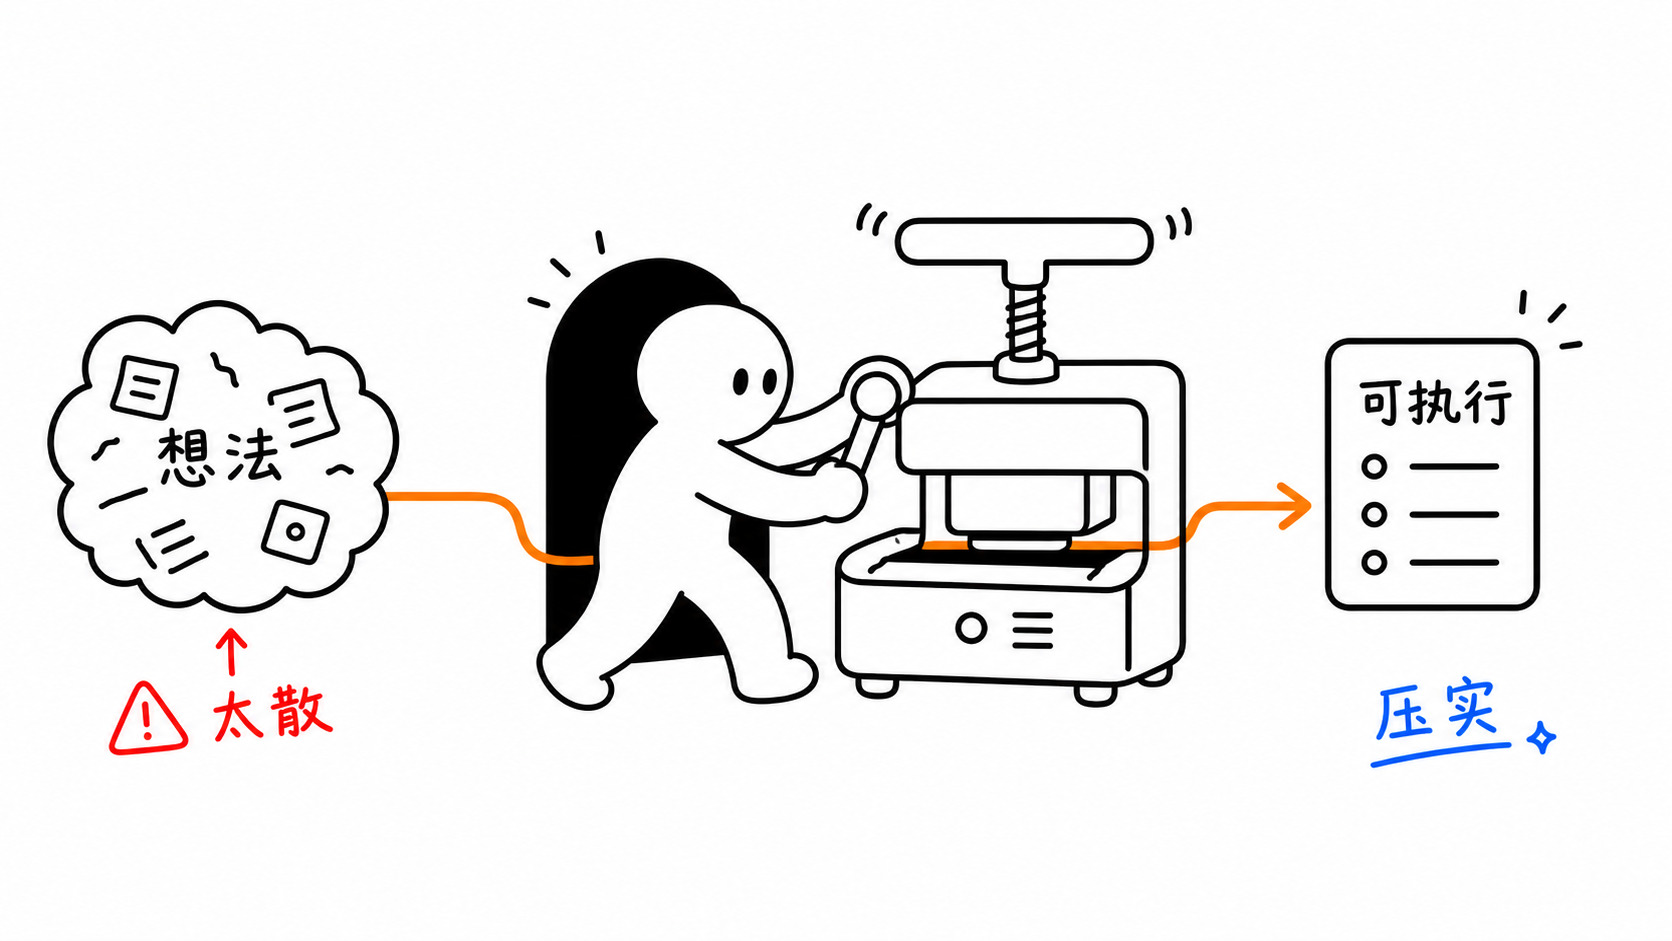
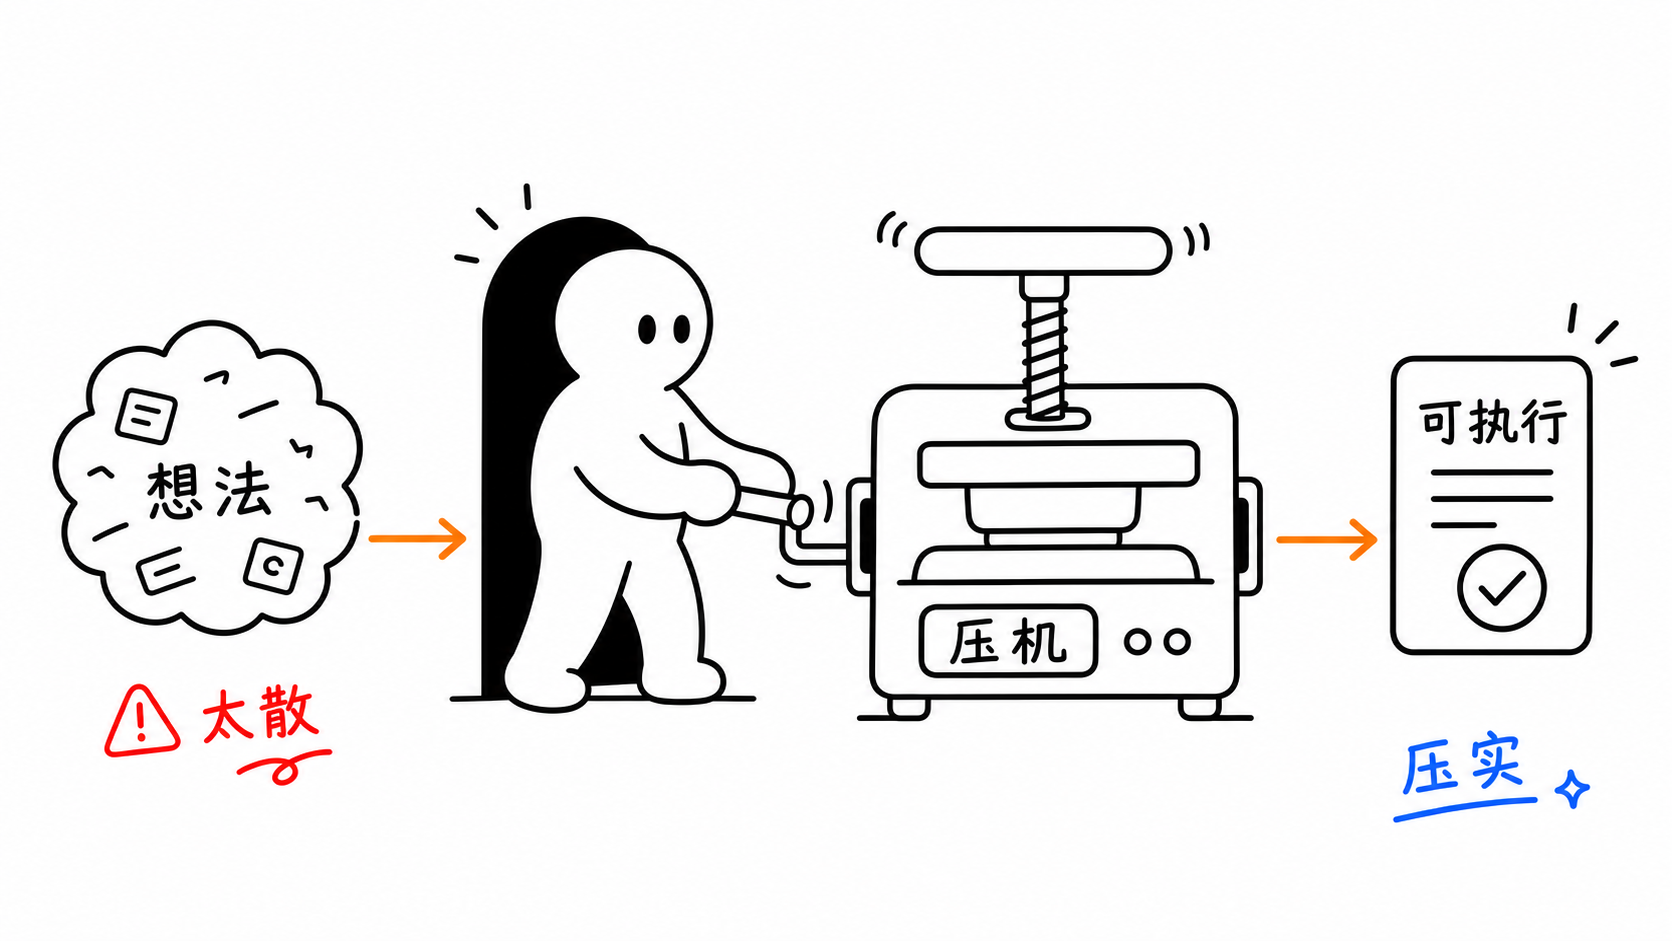
Fix Ailuren flow path separation

Changed region(s): [[0.0311, 0.2157, 0.9952, 0.8937], [0.0622, 0.7088, 0.2177, 0.8321]]

diff --git a/ailuren-illustrations/references/prompt-template.md b/ailuren-illustrations/references/prompt-template.md
@@ -33,7 +33,7 @@ Color use:
 Black for continuous hand-drawn line art, labels, structure, Ai路人的 oval eyes / outline, and optional local black backdrop. White for Ai路人的 body and background. Orange for main flow/path/arrows. Red only for key warnings/problems/results. Blue only for secondary notes or feedback/system state. No gray anywhere. No dashed lines or dotted lines.
 
 Constraints:
-One image explains only one core structure. Keep the main subject around 40%-60% of the canvas. Preserve at least 35% blank white space. Use at most 5-8 short handwritten Chinese labels. Do not write a title in the top-left corner. Do not write the structure type on the image. Do not make it a formal diagram, course slide, or dense explainer. Do not make Ai路人 black, over-detailed, cute, toy-like, robotic, or dressed. Do not add extra hands, extra arms, fingers, pointing hands, overlapping hands, or complex hand poses. Do not let Ai路人的 feet, legs, arms, or body merge with props, machines, wells, boxes, cards, or paths; keep the full silhouette readable with clear white separation from objects. Do not use gray lines, gray fills, gray shadows, dashed lines, dotted lines, engineering guide lines, or sketch construction lines. Do not copy prior examples or reuse known case compositions unless explicitly requested; invent a fresh visual metaphor for this specific article. It should be clear but not instructional, interesting but not childish, strange but clean.
+One image explains only one core structure. Keep the main subject around 40%-60% of the canvas. Preserve at least 35% blank white space. Use at most 5-8 short handwritten Chinese labels. Do not write a title in the top-left corner. Do not write the structure type on the image. Do not make it a formal diagram, course slide, or dense explainer. Do not make Ai路人 black, over-detailed, cute, toy-like, robotic, or dressed. Do not add extra hands, extra arms, fingers, pointing hands, overlapping hands, or complex hand poses. Do not let Ai路人的 feet, legs, arms, or body merge with props, machines, wells, boxes, cards, or paths; keep the full silhouette readable with clear white separation from objects. Keep orange flow paths continuous and readable; do not let orange paths pass through the character body, machine body, cards, boxes, or props. If a path goes through a machine, it must visibly enter a clear input slot and exit a clear output slot, not cut across the machine interior. Do not use gray lines, gray fills, gray shadows, dashed lines, dotted lines, engineering guide lines, or sketch construction lines. Do not copy prior examples or reuse known case compositions unless explicitly requested; invent a fresh visual metaphor for this specific article. It should be clear but not instructional, interesting but not childish, strange but clean.
 ```
 
 ## 图像编辑提示

diff --git a/ailuren-illustrations/references/qa-checklist.md b/ailuren-illustrations/references/qa-checklist.md
@@ -14,6 +14,7 @@
 - 一张图只讲一个核心结构。
 - 中文标注少、短、能读。
 - 橙色只用于主路径或箭头。
+- 橙色路径连续可读，没有被截断，也没有穿过角色身体、机器实体、卡片或道具。
 - 红色只用于重点、问题、提醒或结果。
 - 蓝色只用于补充说明、反馈或系统状态。
 
@@ -26,6 +27,7 @@
 - Ai路人被画成黑色角色，或加了衣服、嘴、鼻子、头发、鞋子。
 - Ai路人多出手、手臂、手指，或一只手同时做多个动作。
 - Ai路人的脚、腿、手臂或身体和道具融合、穿插、共用轮廓，或被道具遮到读不清。
+- 橙色路径横穿机器内部、角色身体或道具，导致层级混乱。
 - 白色角色在白底里看不清。
 - 画面像 PPT、课程课件、正式流程图。
 - 元素太多、箭头太多、节点太多。

diff --git a/ailuren-illustrations/references/style-dna.md b/ailuren-illustrations/references/style-dna.md
@@ -27,6 +27,7 @@
 
 蓝色不是每张都必须用。颜色要克制，宁可少不要多。
 不使用灰色，也不要虚线或点线。物件层级靠黑色连续线条的粗细、留白、尺寸和少量橙红蓝区分。
+橙色路径必须连续、清楚，不能穿过角色身体或核心物件实体；经过机器时只能接到入口和出口，不能横穿机器内部。
 
 ## 绝对不要
 
